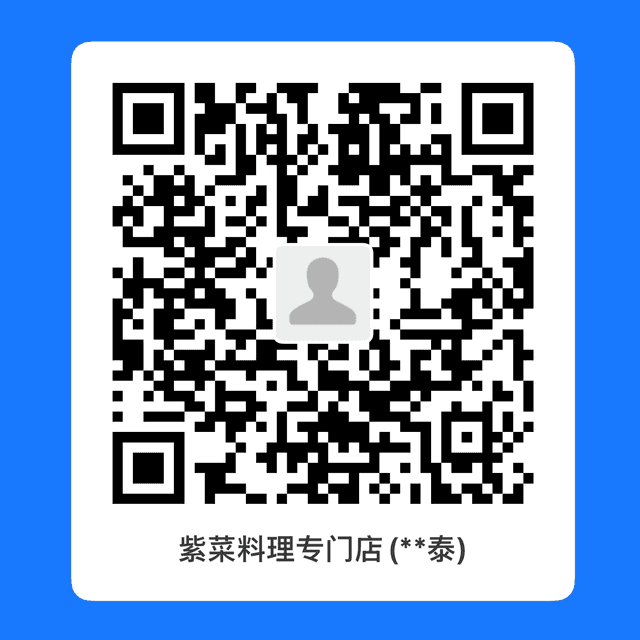
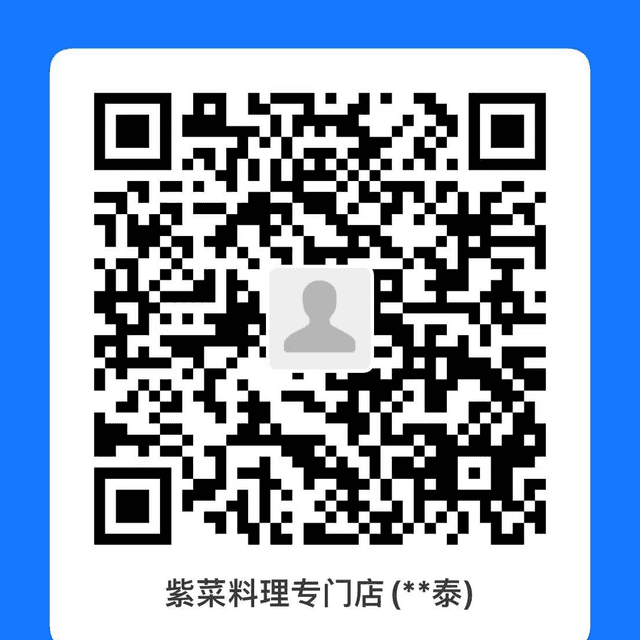
feat(payment): 换新收款码（PayPay 新码有效期至 2026-11-04）
- 微信 / 支付宝 / PayPay 三张新码上传到自有 Supabase Storage，并同步进打包图
  （支付宝裁到白色卡片、PayPay 保留完整到期时间，扫码内容已逐张解码核对）
- 同步脚本对小于 640px 的源图不再放大

diff --git a/src/lib/paymentQrSource.ts b/src/lib/paymentQrSource.ts
@@ -2,17 +2,17 @@
 
 /** 打包图对应的后台原地址；后台换成别的地址后付款页会以前台旧图顶着，等新图加载完再替换 */
 export const BUNDLED_PAYMENT_QR_SOURCE: Record<string, string> = {
-  wechat: "https://backend.appmiaoda.com/projects/supabase330193445119373312/storage/v1/object/public/payment-qrcodes/img_1783093958614_6r1t6hhxao3.jpg",
-  alipay: "https://backend.appmiaoda.com/projects/supabase330193445119373312/storage/v1/object/public/payment-qrcodes/img_1783093976460_w6kyfhq2zal.jpg",
-  paypay: "https://backend.appmiaoda.com/projects/supabase330193445119373312/storage/v1/object/public/payment-qrcodes/img_1783093986829_x3x40e8nhbg.jpg",
+  wechat: "https://occsfgsqshrhhjkzgplz.supabase.co/storage/v1/object/public/payment-qrcodes/qr_wechat_1792531067504.jpg",
+  alipay: "https://occsfgsqshrhhjkzgplz.supabase.co/storage/v1/object/public/payment-qrcodes/qr_alipay_1792531067504.jpg",
+  paypay: "https://occsfgsqshrhhjkzgplz.supabase.co/storage/v1/object/public/payment-qrcodes/qr_paypay_1792531067504.jpg",
 };
 
 /** 生成打包图时下载到的原图 sha1：源图没变时构建直接沿用仓库里的图，不重复编码 */
 export const BUNDLED_PAYMENT_QR_SOURCE_HASH: Record<string, string> = {
-  wechat: "c0521b73b7da7458d96f4f917840f7347af74e96",
-  alipay: "878285136eebf2b221128121ee4d402dccb10f6e",
-  paypay: "a9d99209d17954ce21b2475ddcf079db59bd5355",
+  wechat: "199597d2ca36215cc7c25456bbde1b579fd2e753",
+  alipay: "5325751424e822fbfa0afcd7f0e1309d13f03747",
+  paypay: "08d54dd6d563b8e9adf9876ba8c1ef81fce2a89d",
 };
 
 /** 同步时后台 payment_config.updated_at，用于排查打包图是否落后 */
-export const BUNDLED_PAYMENT_QR_SYNCED_AT = "2026-07-05T12:58:02.192568+00:00";
+export const BUNDLED_PAYMENT_QR_SYNCED_AT = "2026-10-20T21:17:53.456984+00:00";
